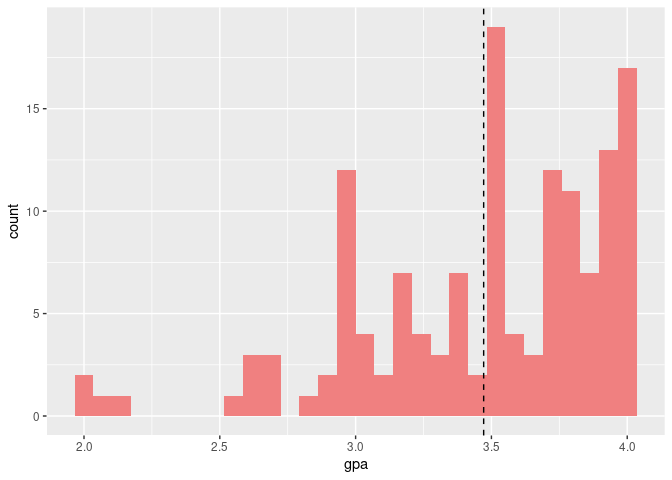
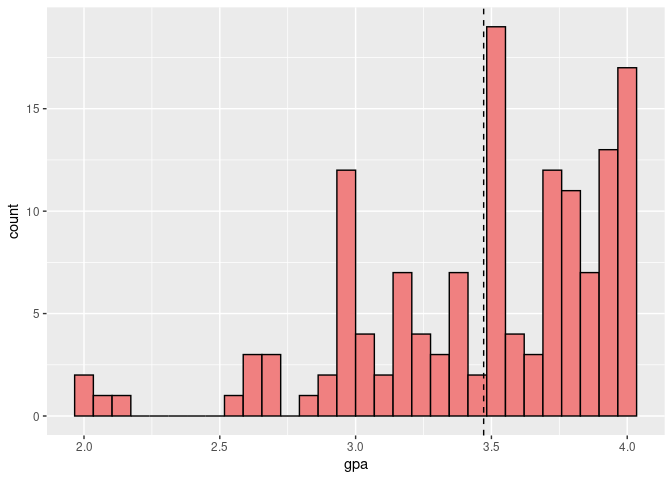
more plotssssss

diff --git a/418FR.md b/418FR.md
@@ -193,7 +193,7 @@ rest_habits <- rest_habits %>%
     to understand and work with.
 
 ``` r
-rest_habits_raw %>% 
+rest_habits_raw %>% # old
   slice(1:10) %>% 
   kable()
 ```
@@ -1487,9 +1487,9 @@ Ok
 </table>
 
 ``` r
-rest_habits %>% 
+rest_habits %>% # cleaned
   slice(1:10) %>%
-  kable() # not to call anyone out but the second observation in this table is about everything I don't want to see when analyzing rest habits
+  kable() # not to call anyone out but the second observation in this table is everything I don't want to see when analyzing rest habits
 ```
 
 <table>
@@ -2497,7 +2497,7 @@ table pivots. Maybe it’s because I haven’t encountered data that appears
 “untidy” to me? The concept of transforming the data set so that “every
 column is a variable, every row is an observation, and every cell is a
 single value” I understand. The examples from Activity 6 were fine but I
-havent encountered abother situation where I’ve thought I needed to
+haven’t encountered another situation where I’ve thought I needed to
 pivot.
 
 These are examples of how I can use functions we’ve learned to isolate
@@ -2558,19 +2558,16 @@ wine %>%
     into an effective data product.*
 
 Visualizations in R are great. With tidyverse & ggplot you can make
-things that don’t look they were made back in the early 2000’s (I’m
-looking at you, base R). More recently since the midterm reflection I’ve
-discovered the mosaic plots. These seem super fun for categorical
-variables and it wasn’t something I was aware of previously.
+things that don’t look they were made back in the early 2000’s.
 
 -   I want to make the tibble I made in the section above easier to
     read. Using kable to make a nicer table. I could have just piped the
-    kable at the end of creating the table. but decided to assign my
+    kable at the end of creating the table but decided to assign my
     previous code to a name. It makes more sense to me to do these two
     things separately.
 
 ``` r
-#making a table
+# making a table
 avg_gpa_byDegree %>% 
   kable(col.names=c('Degree Type', 'Count', 'Average GPA'), caption="Average GPA by Degree") %>% 
   kable_styling()
@@ -2698,7 +2695,7 @@ rest_habits %>%
 
     ## [1] 0.4768212
 
--   From those who do take naps, how long are their naps usually?
+-   From those who do take naps, how long are their naps?
 
 ``` r
 rest_habits %>% 
@@ -2728,7 +2725,7 @@ napDur <- tibble(
 )
 
 napDur %>% 
-  mutate(percent = n/122) # 122 # respondents that aren't N/A (aka didn't respond "never" to napFreq question)
+  mutate(percent = n/122) # 122 # of respondents that aren't N/A (aka didn't respond "never" to napFreq question)
 ```
 
     ## # A tibble: 4 x 3
@@ -2739,46 +2736,9 @@ napDur %>%
     ## 3 Less than 30 minutes.    22   0.180
     ## 4 More than 90 minutes.    14   0.115
 
-Plots!
-
--   before I explore some different plots, an issue we encountered:
-    ggplot likes to order axis as it sees fit… and we wanted them in a
-    specific order! Using levels and factors we could set the order for
-    our axis (and by doing it at the beginning of the project we only
-    had to do it one time).
-
-``` r
-levels_sleepDur = c('Less than 5 hours.', '5-6 hours.', '6-7 hours.', '7-8 hours.', '9-10 hours.', 'More than 10 hours.')
-
-levels_acad = c('Bad', 'Not Good', 'Ok', 'Good', 'Great') # for acad & mental health
-
-levels_socMedDur = c('Less than 1 hour/day.', '1-3 hours/day.', '3-6 hours/day.', '6-9 hours/day.') # for duration of Social Media
-
-levels_allNighter = c('No, never.', 'Yes, rarely.', 'Yes, I do it often.') # for all nighter
-
-levels_leisureFreq = c('I am too busy with school/work to have regular leisure time in my schedule.', 'I spend some time on personal activities a few times a week.', '1-3 hours/day.', '3-6 hours/day.')
-```
-
-``` r
-rest_habits <- rest_habits %>% 
-  mutate(sleepDuration = factor(sleepDuration, levels = levels_sleepDur)) %>% 
-  mutate(across(c(academics, concentration, mood, stress, energy), ~factor(., levels = levels_acad))) %>% 
-  mutate(socMedDuration = factor(socMedDuration, levels = levels_socMedDur)) %>% 
-  mutate(allNighter = factor(allNighter, levels = levels_allNighter)) %>% 
-  mutate(leisureFreq = factor(leisureFreq, levels = levels_leisureFreq))
-```
-
-``` r
-rest_habits %>% 
-  filter(!is.na(gpa)) %>% 
-  ggplot(aes(x=gpa)) + 
-  geom_histogram(fill="lightcoral") +
-  geom_vline(aes(xintercept = mean(gpa)), linetype="dashed")
-```
-
-    ## `stat_bin()` using `bins = 30`. Pick better value with `binwidth`.
-
-![](418FR_files/figure-gfm/gpa%20histogram-1.png)<!-- -->
+Below is an example of a contingency table. I do these all the time in
+412 (Mathematical Statistics) and somehow never picked up that they were
+called contingency tables. First time making it *not* by hand!
 
 ``` r
 rest_habits %>%
@@ -2834,6 +2794,81 @@ Yes
 </tr>
 </tbody>
 </table>
+
+**Plots!**
+
+-   before I explore some different plots, an issue we encountered:
+    ggplot likes to order axis as it sees fit… and we wanted them in a
+    specific order! Using levels and factors we could set the order for
+    our axis (and by doing it at the beginning of the project we only
+    had to do it one time).
+
+``` r
+levels_sleepDur = c('Less than 5 hours.', '5-6 hours.', '6-7 hours.', '7-8 hours.', '9-10 hours.', 'More than 10 hours.')
+
+levels_acad = c('Bad', 'Not Good', 'Ok', 'Good', 'Great') # for acad & mental health
+
+levels_socMedDur = c('Less than 1 hour/day.', '1-3 hours/day.', '3-6 hours/day.', '6-9 hours/day.') # for duration of Social Media
+
+levels_allNighter = c('No, never.', 'Yes, rarely.', 'Yes, I do it often.') # for all nighter
+
+levels_leisureFreq = c('I am too busy with school/work to have regular leisure time in my schedule.', 'I spend some time on personal activities a few times a week.', '1-3 hours/day.', '3-6 hours/day.')
+```
+
+``` r
+rest_habits <- rest_habits %>% 
+  mutate(sleepDuration = factor(sleepDuration, levels = levels_sleepDur)) %>% 
+  mutate(across(c(academics, concentration, mood, stress, energy), ~factor(., levels = levels_acad))) %>% 
+  mutate(socMedDuration = factor(socMedDuration, levels = levels_socMedDur)) %>% 
+  mutate(allNighter = factor(allNighter, levels = levels_allNighter)) %>% 
+  mutate(leisureFreq = factor(leisureFreq, levels = levels_leisureFreq))
+```
+
+-   An example of a histogram. A new thing I found was geom\_vline
+    (along with hline & abline). Allowed us to add lines to our plots -
+    we used it show where the mean lies in our GPA histogram. Noting the
+    flexibility in setting colors, fills, linetypes, etc…
+
+``` r
+rest_habits %>% 
+  filter(!is.na(gpa)) %>% 
+  ggplot(aes(x=gpa)) + 
+  geom_histogram(color="black", fill="lightcoral") +
+  geom_vline(aes(xintercept = mean(gpa)), linetype="dashed")
+```
+
+    ## `stat_bin()` using `bins = 30`. Pick better value with `binwidth`.
+
+![](418FR_files/figure-gfm/gpa%20histogram-1.png)<!-- -->
+
+-   Box plots. I really liked this visualization. This is comparing the
+    mean GPAs of the different major categories. I liked to mess with
+    different options here -
+
+``` r
+rest_habits %>% 
+  filter(!is.na(gpa)) %>% 
+  filter(!is.na(category)) %>% 
+  ggplot(aes(x=category, y=gpa, fill=category)) + 
+  geom_boxplot() +
+  stat_summary(fun=mean, geom="point", shape=20, size=4, color="grey", fill="grey") +
+  theme(axis.text.x = element_text(angle = 45, hjust = 1))
+```
+
+![](418FR_files/figure-gfm/unnamed-chunk-2-1.png)<!-- -->
+
+In my previous stat classes I worked more with quantitative/continuous
+variables than categorical. Because of our data it was almost
+exclusively discrete or categorical variables and I needed to explore
+different types of plots. I loved this site:
+<https://www.r-graph-gallery.com/ggplot2-package.html> I hadn’t
+previously gone beyond scatterplots, histograms, and boxplots.
+
+-   mosaic plots. These seem super fun for categorical variables and it
+    wasn’t something I was aware of previously. It’s like a plot version
+    of a contingency table. You can have multiple variabels being
+    compared as well (not just 2). I also used labs; here I can set
+    titles, axis, and legend labels.
 
 ``` r
 rest_habits %>% 
